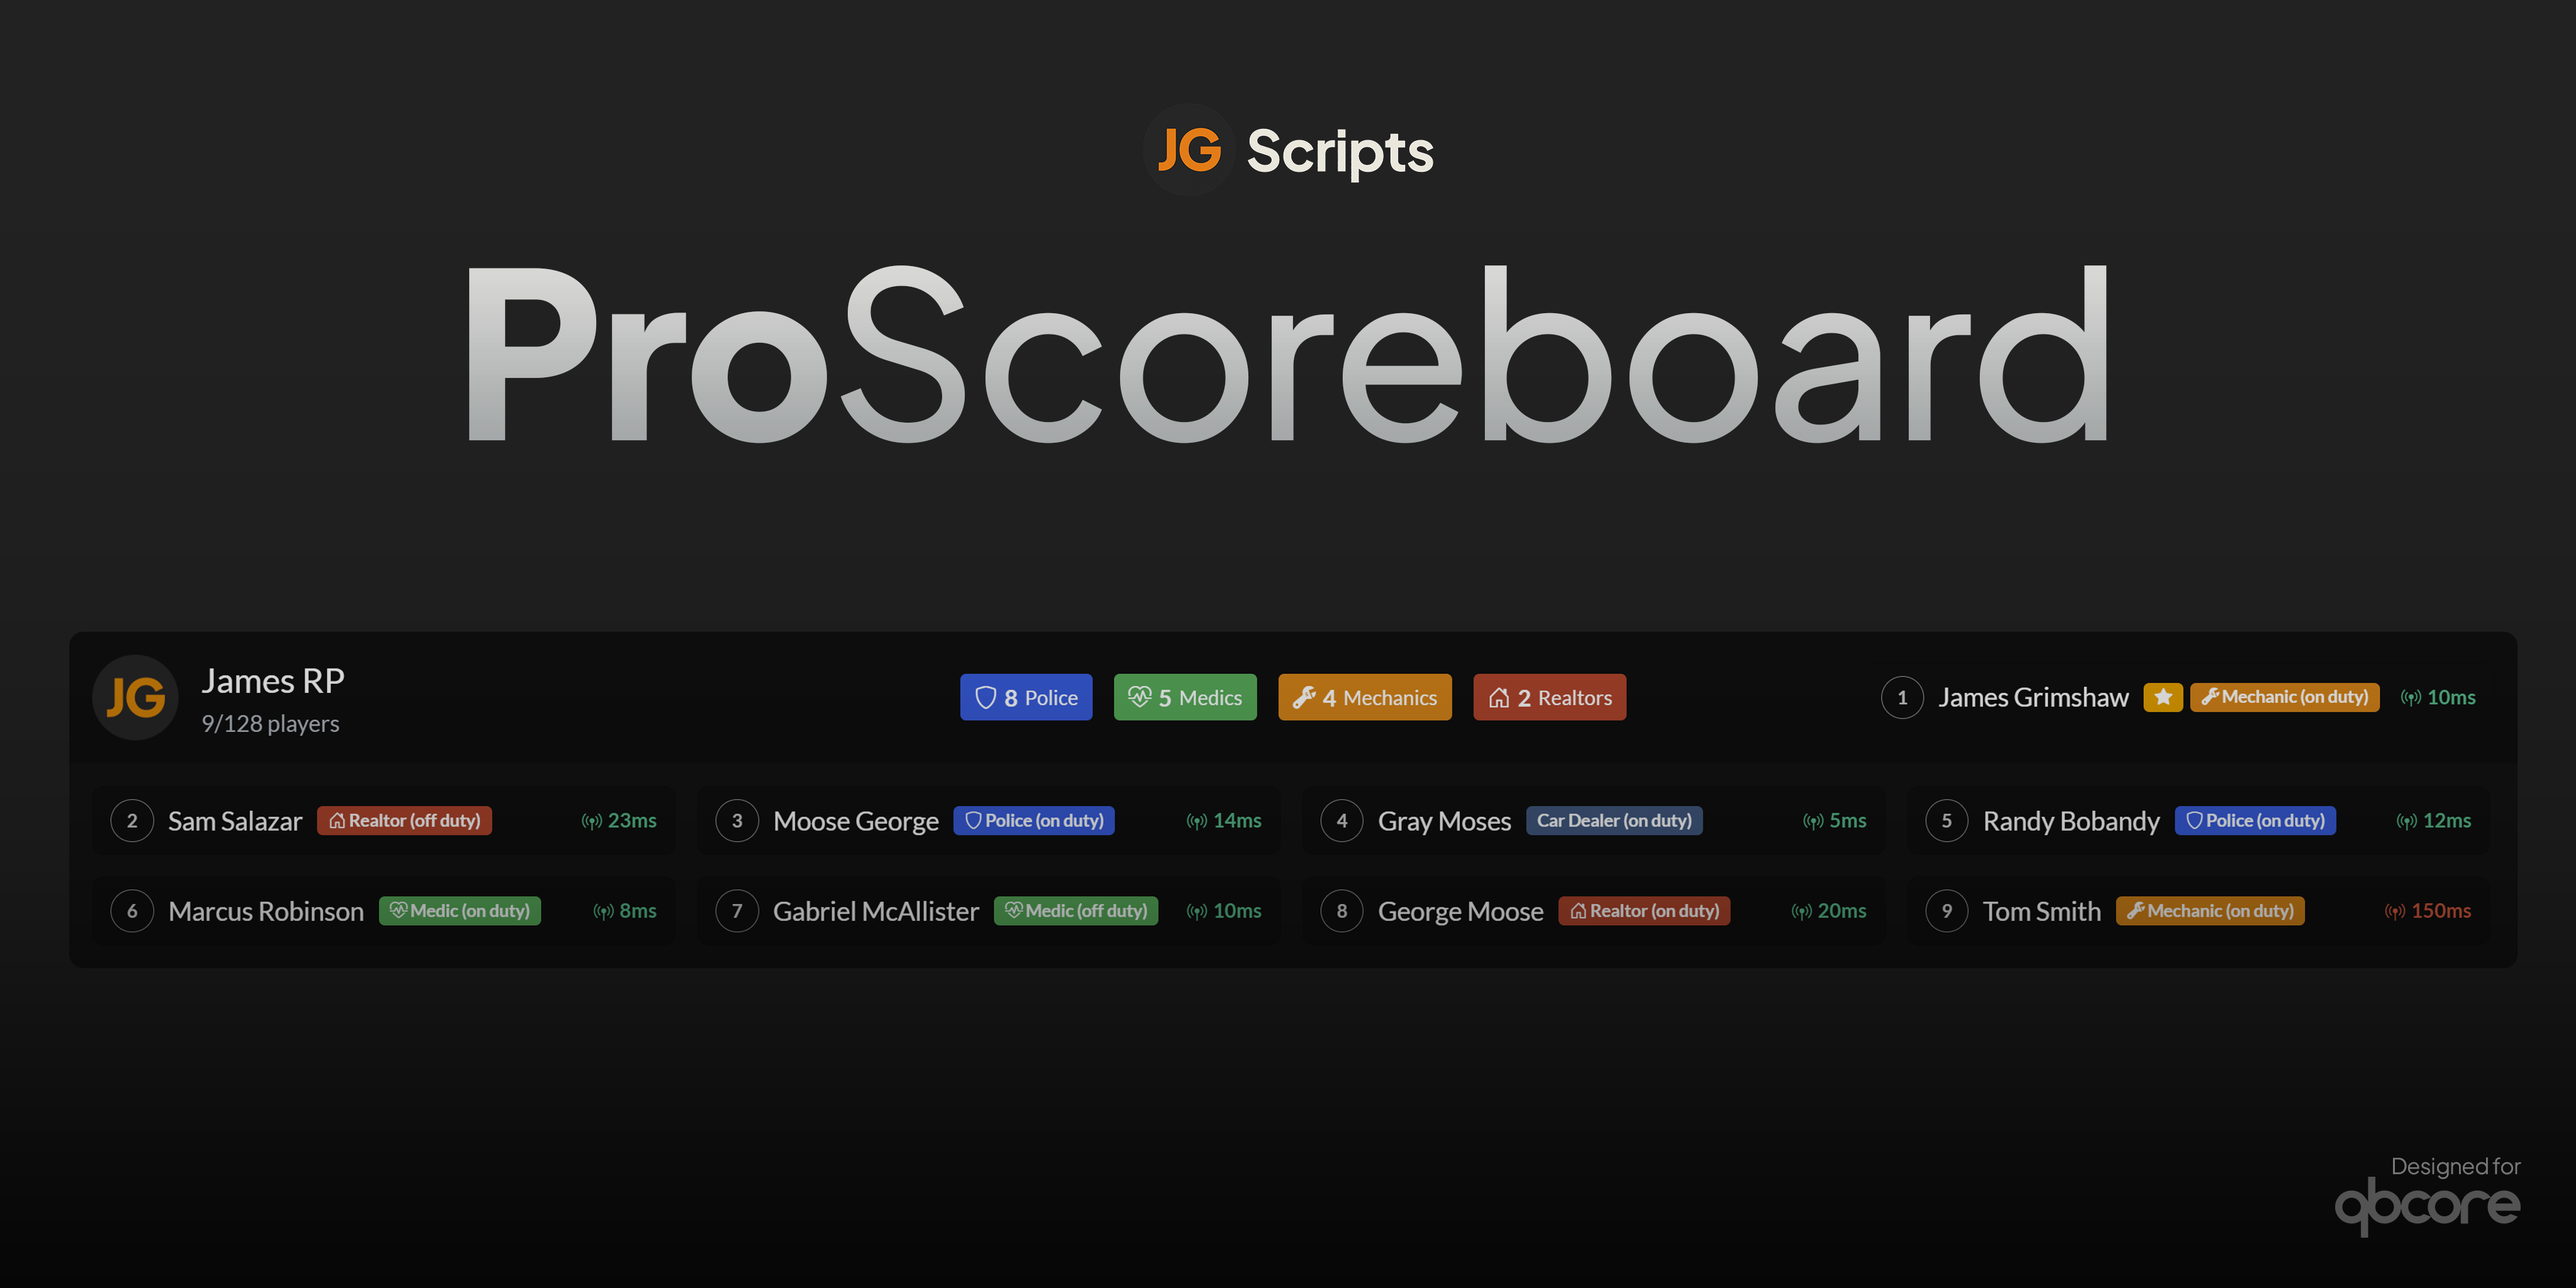
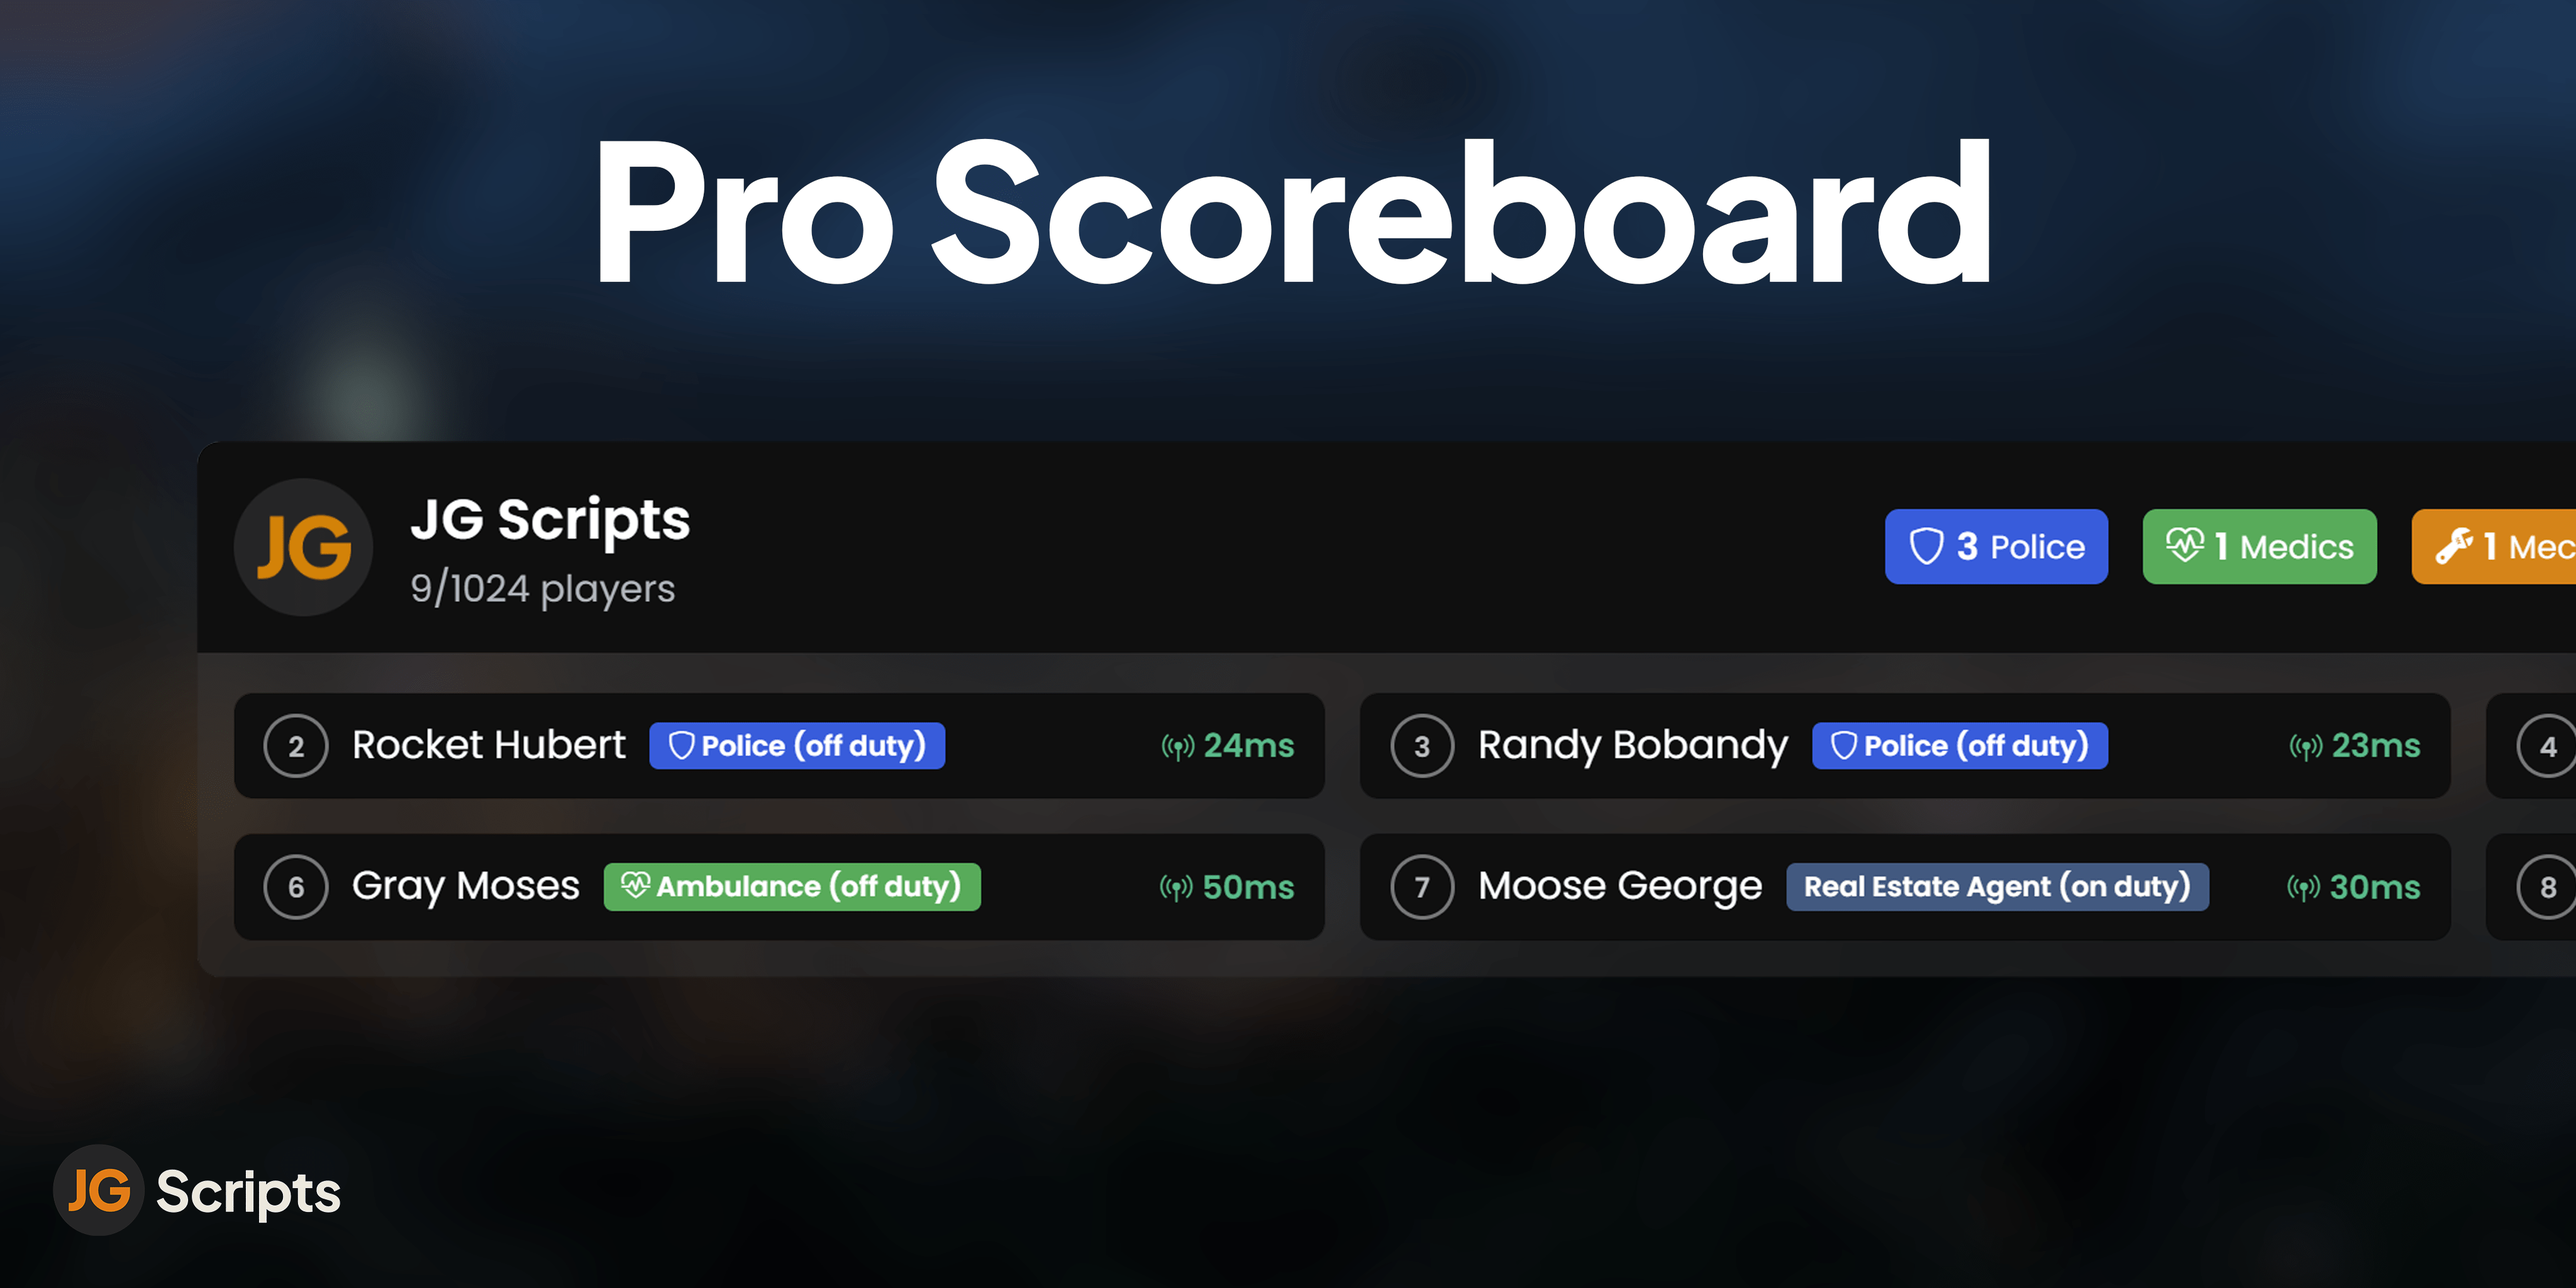
Update pro scoreboard page

diff --git a/qb-esx-pro-scoreboard.html b/qb-esx-pro-scoreboard.html
@@ -31,16 +31,16 @@
       <section class="script-page">
         <h1 class="script-name pro-scoreboard">
           <span class="gradient-text">Pro Scoreboard</span>
-          <span class="script-version">v1.0.1</span>
+          <span class="script-version">v1.2</span>
         </h1>
 
         <div class="split-view">
           <div class="slider">
             <div class="slide">
-              <img src="img/pro-scoreboard/pic-1.png" alt="JG Scripts Advanced Garage" />
+              <img src="img/pro-scoreboard/pic-1.png" alt="Preview of Open Scoreboard" />
             </div>
             <div class="slide">
-              <img src="img/pro-scoreboard/pic-2.png" alt="JG Scripts Advanced Garage" />
+              <img src="img/pro-scoreboard/pic-2.png" alt="Preview of Open Scoreboard" />
             </div>
 
             <button class="btn-next">›</button>
@@ -56,9 +56,9 @@
             </div>
 
             <p>
-              A simple and beautiful player list designed for QBCore. At a glance see all the players currently online,
-              their job, admin status, id and more. You can also view the current totals for configurable whitelist jobs
-              (such as police, ambulance and real estate).
+              A simple and beautiful player list designed for both QBCore and ESX. At a glance see all the players
+              currently online, their job, admin status, id and more. You can also view the current totals for
+              configurable whitelist jobs (such as police, ambulance and real estate).
             </p>
             <ul>
               <li>💎 Clean and beautiful user interface</li>
@@ -72,6 +72,11 @@
                 <a href="https://discord.jgscripts.com" target="_blank">Discord</a> and free updates for life!
               </li>
             </ul>
+
+            <p>
+              Read the documentation here:
+              <a href="https://docs.jgscripts.com/pro-scoreboard/introduction">docs.jgscripts.com</a>
+            </p>
           </div>
         </div>
       </section>
